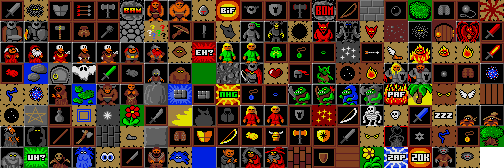
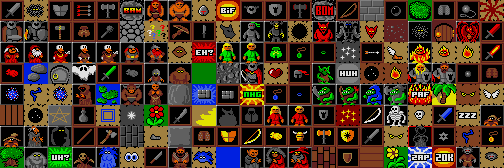
huh

diff --git a/src/actor.js b/src/actor.js
@@ -540,8 +540,15 @@ class Actor extends Phaser.GameObjects.Image {
   // Decrease the current health of the target actor.
   causeDamage(actor, damage, effectType) {    
 
+    let effect;
+
     let hit = ROT.RNG.getUniformInt(1, 20);
     if (hit > 1 && hit > this.agility) {
+      effect = this.scene.add.sprite(actor.x, actor.y, 'tiles', 'huh');
+      effect.actor = actor;
+      effect.depth = 4;
+      effect.visible = false;
+      this.scene.effects.push(effect);
       return;
     }
 
@@ -556,8 +563,8 @@ class Actor extends Phaser.GameObjects.Image {
     actor.health -= damage;
 
     // Add a new effect to the list of effects to be displayed during this update based on the amount of damage.
-    effectType = effectType || (damage > 9 ? 'zok' : 'bif');
-    let effect = this.scene.add.sprite(actor.x, actor.y, 'tiles', effectType);
+    effectType = effectType || (damage > 19 ? 'zok' : 'bif');
+    effect = this.scene.add.sprite(actor.x, actor.y, 'tiles', effectType);
     effect.actor = actor;
     effect.depth = 4;
     effect.visible = false;
